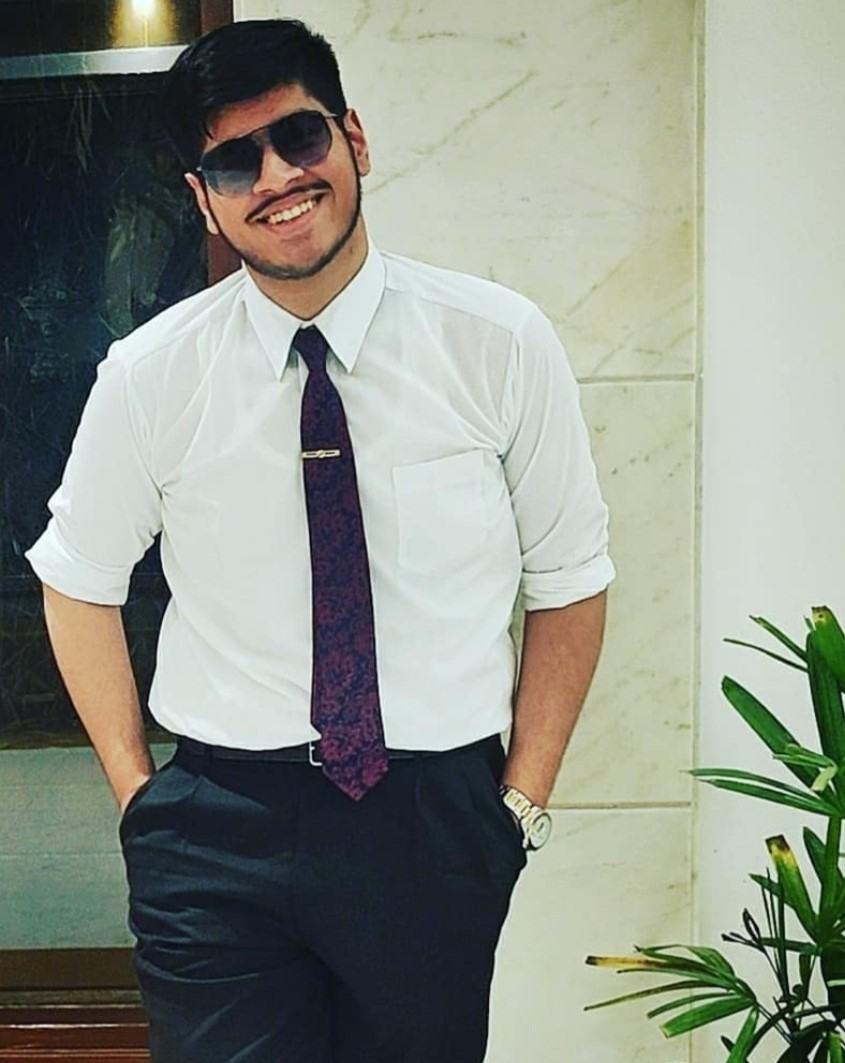
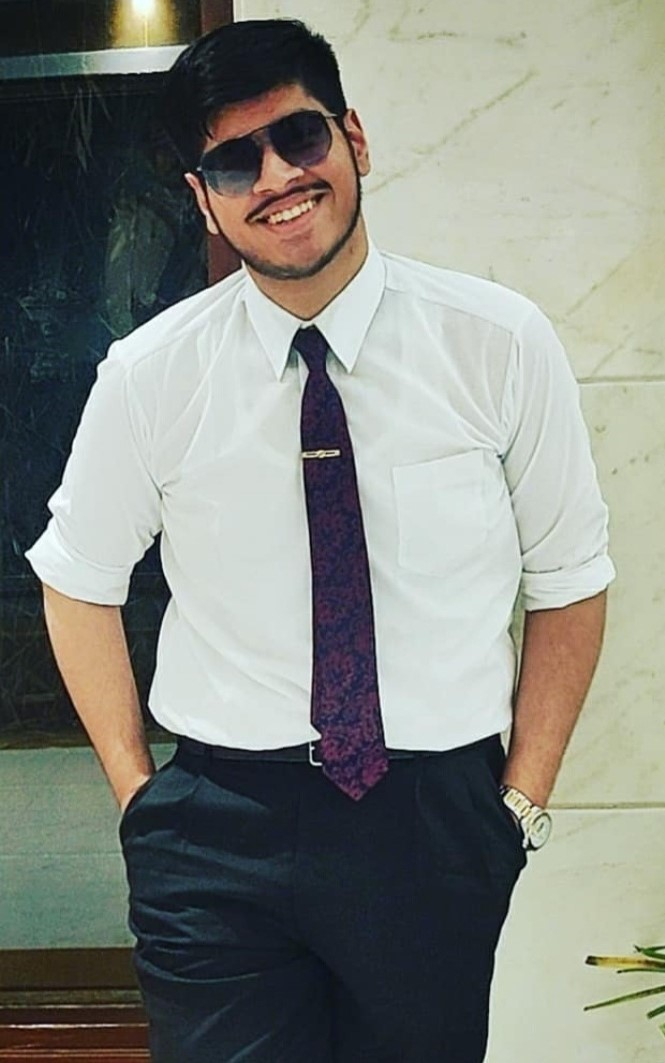
Team section image fixed

diff --git a/static/css/team.css b/static/css/team.css
@@ -231,11 +231,12 @@ body
   flex-wrap: wrap;
   margin: 10px;
   border-radius: 15px;
+  flex-direction: column;
  
 }
 .profile_container{
   aspect-ratio: 1/1;
-  width: min(400px,90%);
+  width: 200px;
   position: relative;
   margin-left: 50px;
   margin-right: 50px;
@@ -254,7 +255,7 @@ body
   width: 100%;
   height: 100%;
   background-size: 100%;
-  background-position: center;
+  background-position: cover;
   transition: all 0.2s ease-in-out;
   position: absolute;
   
